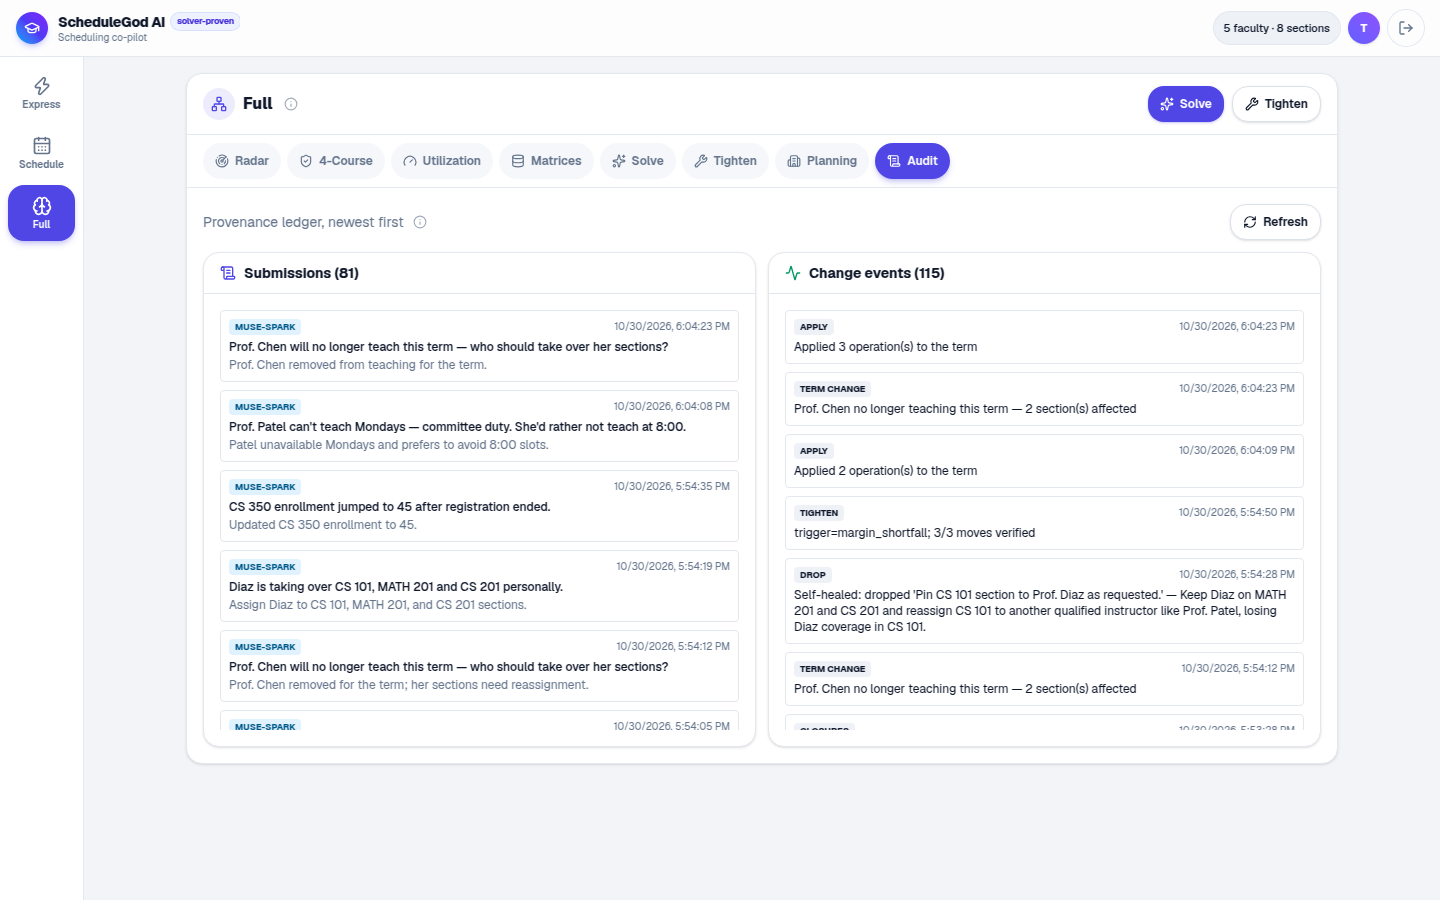
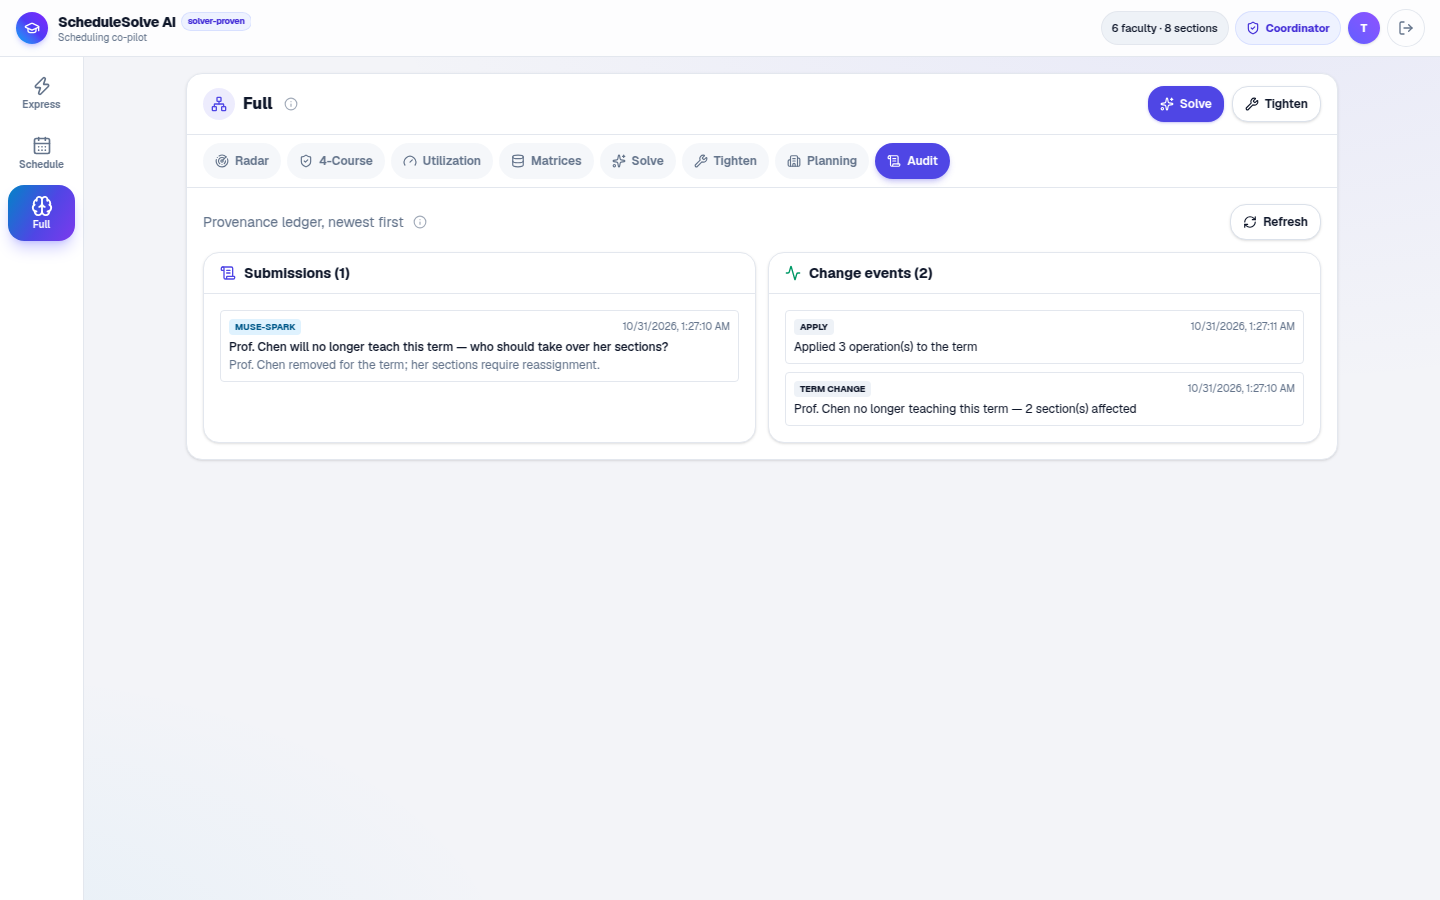
feat(ui): elite polish pass + record-based README/screenshots
Login gains a proof hero (headline, pipeline chips, 361-section / dual-
engine / 100%-guarantee stat cards) with a gradient CTA; header shows a
role pill; nav active states use the brand gradient; design tokens add
layered elevation, gradient text/bar and shimmer utilities; Express
steps widen to max-w-4xl with clearance under the sticky footer;
timetable rows grow to 84px with instructor+room always visible and
single-line stacked blocks (no more clipped text); student panel gets
an elevated card, gradient animated progress bar and accent-bordered
mandatory/optional course cards. README: 360-degree framing carried
through How-it-works/OPERATE/demo-table/provenance (five Spark roles),
and all screenshots re-shot on the live ScheduleSolve UI, including a
new student-advising screenshot.

diff --git a/frontend/src/components/views/wizard.tsx b/frontend/src/components/views/wizard.tsx
@@ -139,7 +139,7 @@ function Section({ title, icon, hint, children, tone = "default" }: {
     sky: "bg-sky-50 border-sky-200",
   };
   return (
-    <section className={cn("rounded-2xl border p-3.5 shadow-sm sm:p-4", tones[tone])}>
+    <section className={cn("elev rounded-2xl border p-3.5 sm:p-4", tones[tone])}>
       <div className="mb-3 flex items-center gap-2">
         <span className="shrink-0 rounded-lg border border-black/5 bg-white/80 p-1.5 shadow-sm">{icon}</span>
         <h3 className="min-w-0 flex-1 truncate font-extrabold text-sm tracking-tight text-foreground">{title}</h3>
@@ -487,7 +487,7 @@ export function WizardView({ onToast }: WizardViewProps) {
         </div>
       </div>
 
-      <div className="mt-4 space-y-4">
+      <div className="mt-4 space-y-4 pb-28">
         {error && (
           <div className="bg-amber-50 border border-amber-200 rounded-lg p-4 text-sm text-amber-800">
             Backend not reachable — the wizard needs the Python service. Start it with{" "}
@@ -497,7 +497,7 @@ export function WizardView({ onToast }: WizardViewProps) {
         )}
 
         {step === "import" && (
-          <div className="space-y-4 max-w-3xl mx-auto">
+          <div className="space-y-4 max-w-4xl mx-auto">
             <Section title="Your scheduling data" hint="Any format — PDF catalog, Excel rooms, Word memo, CSV, plain text, or a zip. Muse autocleans files covering all six needs (catalog, degree maps, cohorts, faculty, rooms, campus map) into one model of the institution." icon={<Database className="w-5 h-5 text-primary" />} tone="primary">
               <div
                 onDragOver={(e) => { e.preventDefault(); setDragOver(true); }}
@@ -615,7 +615,7 @@ export function WizardView({ onToast }: WizardViewProps) {
         )}
 
         {step === "intake" && (
-          <div className="space-y-4 max-w-3xl mx-auto">
+          <div className="space-y-4 max-w-4xl mx-auto">
             <Section title="Add a constraint" hint="Type it exactly as you'd say it. Muse parses it into typed constraints; the solver re-solves and proves it before anything changes." icon={<Users className="w-5 h-5 text-primary" />} tone="primary">
               <div className="flex flex-wrap items-center gap-2 mb-2">
                 <label className="text-xs font-semibold text-muted-foreground" htmlFor="speaker">Speaker</label>
@@ -702,7 +702,7 @@ export function WizardView({ onToast }: WizardViewProps) {
         )}
 
         {step === "build" && (
-          <div className="space-y-4 max-w-3xl mx-auto">
+          <div className="space-y-4 max-w-4xl mx-auto">
             <Section title="Build the term" hint="Assigns every section an instructor, time, and room under all hard rules: capacity, loads, cohort conflicts, equipment, walk distance. Pick an engine — same input, same output contract." icon={<Zap className="w-5 h-5 text-emerald-600" />} tone="emerald">
               <div className="flex items-center gap-2 mb-2">
                 <span className="text-xs font-semibold text-emerald-900">Engine</span>
@@ -831,7 +831,7 @@ export function WizardView({ onToast }: WizardViewProps) {
         )}
 
         {step === "review" && (
-          <div className="space-y-4 max-w-3xl mx-auto">
+          <div className="space-y-4 max-w-4xl mx-auto">
             {spectral && (
               <Section title="Spectral radar" hint="Conflict-graph health check. μ₂ = how tightly sections are coupled; Hoffman bound = minimum time bands needed; max clique = largest set of mutually conflicting sections. Warnings flag structural deadlocks before a solve is wasted." icon={<Radar className="w-5 h-5 text-sky-600" />} tone="sky">
                 <div className="grid grid-cols-3 gap-2 text-center text-xs">
@@ -883,7 +883,7 @@ export function WizardView({ onToast }: WizardViewProps) {
         )}
 
         {step === "term-change" && (
-          <div className="space-y-4 max-w-3xl mx-auto">
+          <div className="space-y-4 max-w-4xl mx-auto">
             <Section title="Term Change" hint="A change that lasts through the end of the term — an instructor will no longer teach, so their sections are reassigned for the rest of the term. The solver probes every qualified instructor and ranks only zero-ripple reassignments; no name is shown until the reassignment is proven. A room change for the rest of the term (e.g. a hall withdrawn) is entered in Intake instead." icon={<AlertTriangle className="w-5 h-5 text-amber-600" />} tone="amber">
               <textarea
                 value={termChangeMsg}

diff --git a/frontend/src/components/views/login.tsx b/frontend/src/components/views/login.tsx
@@ -48,6 +48,41 @@ export function LoginView({ onLogin, onToast }: {
   return (
     <div className="relative flex min-h-dvh w-full items-center justify-center overflow-hidden bg-background p-4">
       <div aria-hidden className="pointer-events-none absolute inset-0 bg-[radial-gradient(60rem_30rem_at_50%_-10%,rgba(99,102,241,0.16),transparent),radial-gradient(40rem_24rem_at_90%_110%,rgba(14,165,233,0.12),transparent)]" />
+
+      {/* Proof panel (desktop): the first impression carries the evidence. */}
+      <div className="animate-rise relative mr-14 hidden w-full max-w-xl xl:block">
+        <p className="text-[11px] font-bold tracking-[0.2em] text-indigo-600 uppercase">Agentic constraint solver · Timetable infrastructure</p>
+        <h2 className="mt-3 text-5xl leading-[1.05] font-extrabold tracking-tight text-foreground">
+          The timetable,<br /><span className="text-gradient">proven — not guessed.</span>
+        </h2>
+        <p className="mt-4 max-w-md text-sm leading-relaxed text-muted-foreground">
+          Messy institutional files in any format become one model of the whole
+          campus. Muse Spark proposes constraints in plain language; two
+          solver engines prove every schedule, change, and student's plan
+          before it stands.
+        </p>
+        <div className="mt-6 flex flex-wrap gap-1.5">
+          {["Any-format ingestion", "Muse Spark parses", "Solvers prove", "Faculty verified", "Students advised"].map((s, i, a) => (
+            <span key={s} className="inline-flex items-center gap-1.5">
+              <span className="rounded-full bg-white/80 px-2.5 py-1 text-[11px] font-bold text-indigo-900 ring-1 ring-indigo-200/70 shadow-sm">{s}</span>
+              {i < a.length - 1 && <span className="text-indigo-300">→</span>}
+            </span>
+          ))}
+        </div>
+        <div className="mt-8 grid max-w-lg grid-cols-3 gap-2">
+          {[
+            ["361", "sections proven optimal at full-university scale"],
+            ["2", "solver engines raced head-to-head on identical data"],
+            ["100%", "of cohorts keep their 4-course guarantee at stress scale"],
+          ].map(([n, label]) => (
+            <div key={label} className="elev rounded-2xl border border-border bg-card/90 p-3">
+              <div className="text-gradient text-2xl font-extrabold tracking-tight">{n}</div>
+              <div className="mt-1 text-[10px] leading-snug text-muted-foreground">{label}</div>
+            </div>
+          ))}
+        </div>
+      </div>
+
       <div className="animate-rise relative w-full max-w-md space-y-4">
         <div className="space-y-2 text-center">
           <div className="inline-flex rounded-2xl bg-gradient-to-tr from-sky-500 to-indigo-600 p-3 text-white shadow-lg shadow-indigo-500/25">
@@ -95,7 +130,7 @@ export function LoginView({ onLogin, onToast }: {
                   cohort_id: role === "student" ? linkId || undefined : undefined,
                 })
               : submit("/api/auth/login", { email, password })}
-            className="inline-flex min-h-11 w-full items-center justify-center gap-2 rounded-xl bg-primary px-3 py-2 text-sm font-semibold text-primary-foreground shadow-sm shadow-primary/25 transition-all active:scale-[0.99] disabled:opacity-50"
+            className="brand-gradient inline-flex min-h-11 w-full items-center justify-center gap-2 rounded-xl px-3 py-2 text-sm font-semibold text-white shadow-md shadow-indigo-500/30 transition-all hover:brightness-110 active:scale-[0.99] disabled:opacity-40"
           >
             {registering ? <UserPlus className="w-4 h-4" /> : <KeyRound className="w-4 h-4" />}
             {registering ? "Create account" : "Sign in"}

diff --git a/frontend/src/components/views/my-schedule.tsx b/frontend/src/components/views/my-schedule.tsx
@@ -340,7 +340,7 @@ function StudentPlanPanel({ user, onToast }: {
   }
 
   return (
-    <div className="space-y-3 rounded-2xl border border-border bg-card p-4 shadow-sm">
+    <div className="elev space-y-3 rounded-2xl border border-border bg-card p-4">
       <div className="flex items-center gap-1.5">
         <h3 className="flex items-center gap-2 text-xs font-bold tracking-wide uppercase">
           <GraduationCap className="h-4 w-4 text-primary" /> Suggest my schedule
@@ -391,13 +391,13 @@ function StudentPlanPanel({ user, onToast }: {
       )}
 
       {plan?.progress && (
-        <div className="space-y-1.5 rounded-xl border border-border bg-background p-3 text-xs">
+        <div className="animate-rise elev space-y-1.5 rounded-xl border border-border bg-background p-3 text-xs">
           <p className="font-bold">
             {plan.progress.program_name}: {plan.progress.required_completed} of {plan.progress.required_total} mandatory courses completed ({plan.progress.pct_complete}%)
             <span className="ml-2 font-medium text-muted-foreground">from {plan.progress.source}</span>
           </p>
-          <div className="h-2 overflow-hidden rounded-full bg-muted">
-            <div className="h-full bg-primary" style={{ width: `${plan.progress.pct_complete}%` }} />
+          <div className="h-2.5 overflow-hidden rounded-full bg-muted">
+            <div className="brand-gradient h-full rounded-full transition-[width] duration-700 ease-out" style={{ width: `${plan.progress.pct_complete}%` }} />
           </div>
           <p className="text-muted-foreground">
             Ready now (mandatory): {plan.progress.mandatory_ready.join(", ") || "none"}
@@ -426,9 +426,9 @@ function StudentPlanPanel({ user, onToast }: {
       )}
 
       {plan && plan.courses.length > 0 && (
-        <div className="grid gap-2 sm:grid-cols-2">
+        <div className="animate-rise grid gap-2 sm:grid-cols-2">
           {plan.courses.map((c) => (
-            <div key={c.section_id} className="rounded-xl border border-border bg-background p-3">
+            <div key={c.section_id} className={`rounded-xl border border-border border-l-4 bg-background p-3 ${c.required ? "border-l-indigo-500" : "border-l-slate-300"}`}>
               <p className="flex items-center gap-2 text-sm font-extrabold">
                 {c.course_code}
                 {c.required ? (

diff --git a/frontend/src/components/timetable-grid.tsx b/frontend/src/components/timetable-grid.tsx
@@ -44,6 +44,11 @@ function Block({ placement, changed, compact }: {
       <div className="flex items-start justify-between gap-1">
         <span className="text-[11px] font-extrabold leading-tight truncate">
           {placement.course_code}
+          {compact && (
+            <span className="ml-1 text-[9px] font-semibold opacity-75">
+              {shortName(placement.instructor_name)}
+            </span>
+          )}
         </span>
         <span className="flex items-center gap-1 shrink-0">
           {placement.periods.length > 1 && (
@@ -56,13 +61,15 @@ function Block({ placement, changed, compact }: {
           )}
         </span>
       </div>
-      <div className="text-[10px] font-medium leading-tight truncate">
-        {shortName(placement.instructor_name)}
-      </div>
       {!compact && (
-        <div className="text-[9px] leading-tight opacity-70 truncate">
-          {placement.room_name}
-        </div>
+        <>
+          <div className="text-[10px] font-medium leading-tight truncate">
+            {shortName(placement.instructor_name)}
+          </div>
+          <div className="text-[9px] leading-tight opacity-70 truncate">
+            {placement.room_name}
+          </div>
+        </>
       )}
     </div>
   );
@@ -100,14 +107,14 @@ export function TimetableGrid({ placements, changed, compact }: {
           className="grid min-w-[430px] gap-px overflow-hidden rounded-2xl bg-border p-px sm:min-w-[520px]"
           style={{
             gridTemplateColumns: "44px repeat(5, minmax(0, 1fr))",
-            gridTemplateRows: `26px repeat(4, ${compact ? "60px" : "76px"})`,
+            gridTemplateRows: `28px repeat(4, ${compact ? "60px" : "84px"})`,
           }}
         >
           <div className="bg-slate-100" style={{ gridColumn: 1, gridRow: 1 }} />
           {DAY_NAMES.map((day, i) => (
             <div
               key={day}
-              className="flex items-center justify-center bg-slate-100 px-0.5 text-[10px] font-extrabold tracking-widest text-slate-500 uppercase"
+              className="flex items-center justify-center bg-slate-100 px-0.5 text-[10px] font-extrabold tracking-widest text-slate-600 uppercase"
               style={{ gridColumn: i + 2, gridRow: 1 }}
             >
               <span className="sm:hidden">{day.slice(0, 3)}</span>

diff --git a/frontend/src/components/sidebar.tsx b/frontend/src/components/sidebar.tsx
@@ -54,11 +54,11 @@ export function Sidebar({ activeView, setActiveView }: NavProps) {
                 className={cn(
                   "relative flex min-h-14 w-full flex-col items-center justify-center gap-1 rounded-2xl px-1 py-2 transition-all duration-150 active:scale-[0.97]",
                   isActive
-                    ? "bg-primary text-primary-foreground shadow-md shadow-primary/25"
+                    ? "brand-gradient text-white shadow-lg shadow-indigo-500/30"
                     : "text-muted-foreground hover:bg-accent hover:text-accent-foreground"
                 )}
               >
-                <Icon className="h-5 w-5 shrink-0" />
+                <Icon className={cn("h-5 w-5 shrink-0", isActive && "scale-110")} />
                 <span className="text-[10px] leading-none font-semibold">{view.label}</span>
               </button>
             </Tip>
@@ -88,7 +88,7 @@ export function MobileNav({ activeView, setActiveView }: NavProps) {
               className={cn(
                 "flex min-h-12 flex-col items-center justify-center gap-0.5 rounded-2xl px-2 py-1.5 transition-all duration-150 active:scale-[0.96]",
                 isActive
-                  ? "bg-primary text-primary-foreground shadow-md shadow-primary/25"
+                  ? "brand-gradient text-white shadow-lg shadow-indigo-500/30"
                   : "text-muted-foreground active:bg-accent"
               )}
             >

diff --git a/frontend/src/components/header.tsx b/frontend/src/components/header.tsx
@@ -3,7 +3,7 @@
 // Compact glass header: brand, live scale, user. Detail hides in tooltips.
 
 import { useEffect, useState } from "react";
-import { GraduationCap, LogOut } from "lucide-react";
+import { BookOpenCheck, GraduationCap, LogOut, ShieldCheck } from "lucide-react";
 import type { Scenario } from "@/types";
 import type { AuthUser } from "@/lib/auth";
 import { Tip } from "@/components/ui/tip";
@@ -55,6 +55,12 @@ export function Header({ user, onLogout }: { user?: AuthUser | null; onLogout?: 
 
           {user && (
             <>
+              <span className="hidden h-8 items-center gap-1.5 rounded-full bg-indigo-50 px-2.5 text-[11px] font-bold text-indigo-700 ring-1 ring-indigo-200/70 sm:inline-flex">
+                {user.role === "coordinator" ? <ShieldCheck className="h-3.5 w-3.5" />
+                  : user.role === "instructor" ? <BookOpenCheck className="h-3.5 w-3.5" />
+                  : <GraduationCap className="h-3.5 w-3.5" />}
+                <span className="capitalize">{user.role}</span>
+              </span>
               <Tip label={`${user.email} · ${user.role}`} side="bottom">
                 <span className="flex h-8 w-8 cursor-help items-center justify-center rounded-full bg-gradient-to-tr from-indigo-500 to-violet-500 text-[11px] font-extrabold text-white shadow-sm">
                   {(user.display_name || user.email).slice(0, 1).toUpperCase()}

diff --git a/frontend/src/app/globals.css b/frontend/src/app/globals.css
@@ -138,6 +138,43 @@
     user-select: none;
     -webkit-user-select: none;
   }
+  /* Layered elevation for primary surfaces (cards that carry the story). */
+  .elev {
+    box-shadow:
+      0 1px 2px rgba(15, 23, 42, 0.05),
+      0 8px 24px -8px rgba(15, 23, 42, 0.1);
+  }
+  .elev-lg {
+    box-shadow:
+      0 2px 4px rgba(15, 23, 42, 0.05),
+      0 20px 44px -12px rgba(49, 46, 129, 0.22);
+  }
+  .brand-gradient {
+    background-image: linear-gradient(120deg, #0284c7, #4f46e5 55%, #7c3aed);
+  }
+  .text-gradient {
+    background-image: linear-gradient(100deg, #0369a1, #4f46e5 55%, #7c3aed);
+    -webkit-background-clip: text;
+    background-clip: text;
+    color: transparent;
+  }
+  /* Indeterminate shimmer for progress / loading bars. */
+  .shimmer {
+    position: relative;
+    overflow: hidden;
+  }
+  .shimmer::after {
+    content: "";
+    position: absolute;
+    inset: 0;
+    background: linear-gradient(100deg, transparent 20%, rgba(255, 255, 255, 0.45) 50%, transparent 80%);
+    animation: shimmer 1.8s ease-in-out infinite;
+  }
+}
+
+@keyframes shimmer {
+  from { transform: translateX(-100%); }
+  to { transform: translateX(100%); }
 }
 
 @keyframes rise {

diff --git a/frontend/src/components/dashboard.tsx b/frontend/src/components/dashboard.tsx
@@ -79,7 +79,7 @@ export function Dashboard() {
       <Header user={user} onLogout={handleLogout} />
       <div className="flex min-h-0 flex-1 overflow-hidden">
         <Sidebar activeView={activeView} setActiveView={setActiveView} />
-        <main className="relative min-w-0 flex-1 overflow-hidden bg-muted/30">
+        <main className="relative min-w-0 flex-1 overflow-hidden bg-muted/30 bg-[radial-gradient(54rem_26rem_at_85%_-10%,rgba(99,102,241,0.08),transparent),radial-gradient(36rem_20rem_at_-10%_110%,rgba(14,165,233,0.06),transparent)]">
           {/* Clearance for the fixed mobile tab bar (removed on lg). */}
           <div className="custom-scrollbar h-full overflow-y-auto p-3 pb-[calc(5.5rem+env(safe-area-inset-bottom,0px))] sm:p-4 lg:pb-4">
             <div key={activeView} className="animate-rise mx-auto w-full max-w-6xl">

diff --git a/readme.md b/readme.md
@@ -32,6 +32,8 @@ Built for the **Meta Global AI Developer Hackathon** — *Build for Your World* 
 
 ![Express · Term Change: before/after with CP-SAT-verified reassignment](docs/screenshot-term-change.png)
 
+![Student · Suggest my schedule: record-based advising with a verified personal plan](docs/screenshot-student.png)
+
 ## How it works
 
 ```
@@ -55,7 +57,11 @@ BUILD      both engines assign every section an instructor, timeslot set,
            evaluates both final schedules from outputs alone (proven status,
            then penalty, then speed) and ranks Rank 1 / Rank 2
 OPERATE    the coordinator publishes the winning timetable; instructors and
-           students sign in to their own role-filtered schedules. Changes
+           students sign in to their own role-filtered schedules, and each
+           student is advised from their own study record + desired degree:
+           mandatory/optional from the fed degree map, a proven personal
+           plan that fits their work days — or a named reason it cannot.
+           Changes
            arrive two ways: a term change (a typed message -> impact analysis
            -> propose_candidates: every qualified instructor solver-probed
            for zero-ripple feasibility + preference delta, ranked with
@@ -92,7 +98,7 @@ Full constraint catalog — offerings & degree roadmaps, course optionality, act
 | "Diaz is taking over CS 101, MATH 201 and CS 201 personally." | INFEASIBLE — Diaz's load cap is two sections. Muse Spark's explanation names the binding rule and ranks resolutions ("drop the CS 201 pin — Okafor has capacity to take it"); **every option is re-solved by CP-SAT with its own penalty delta**, the least disruptive one applies. |
 | "CS 350 enrollment jumped to 45 after registration ended." | Active enrollment re-triggers every capacity check; the board re-solves and CS 350 lands in the 120-seat hall with zero cohort conflicts. |
 | *(coordinator clicks Publish, then signs in as Prof. Chen)* | Chen sees **only her own sections**. Her request "I can't teach Fridays" goes to the coordinator, who approves it — the verified loop re-solves, re-publishes, and her personal grid updates. A student signing in sees only their cohort's courses. |
-| "I work Tuesdays and Thursdays. I need CS 201 this term, no 8 AMs." *(a student, in My Schedule → Suggest my schedule)* | Muse Spark parses work days / must-take / time bans; an exact selector returns a personal plan from the placed timetable — required roadmap courses first, zero overlaps, nothing on work days — re-verified independently before it is shown. When CS 201's only section is the 8 AM one, the student is told that plainly instead of being handed a plan that slips their degree. |
+| "I work Tuesdays and Thursdays. I need CS 201 this term, no 8 AMs." *(a student, in My Schedule → Suggest my schedule)* | Advising starts from the student's own record: mandatory vs optional from the fed degree map, completed courses from their study record (or a cohort progress lookup), desired degree of their choice. Muse Spark parses record + life constraints; a degree-map audit shows mandatory done / ready / co-takeable / locked; an exact selector then recommends — zero overlaps, nothing already completed, nothing on work days — re-verified independently before it is shown. When CS 201's only section is the 8 AM one, the student is told that plainly instead of being handed a plan that slips their degree. |
 | "What if enrollment grows 20% — or we repurpose the big hall?" | Each growth/repurpose/build-a-lab what-if is re-solved first: utilization and four-course-guarantee deltas with a plain verdict, before capital is committed. Add a college, degree, or course — or adjust a degree map — by re-ingesting the changed files; the institution re-solves as one. |
 | *(C39 shortfall fires)* | "CS 2023 cohort can only fit 2 of 4 non-conflicting courses." → the tightener proposes opening already-offered electives; CP-SAT verifies the margin gains against the current board and **rejects** moves that make the enlarged scenario infeasible. Only verified moves are shown. |
 
@@ -174,7 +180,7 @@ cp .env.example .env        # then paste your key from https://dev.meta.ai/dashb
 docker compose up --build   # live Muse Spark
 ```
 
-**Sample outputs / provenance:** `backend/muse-verification.json` is a live captured run of all four structured roles against the seed (ingestion + parse + explanation + tighten), all `muse-spark-1.3-contributor`, with real structured outputs and latencies (3–42 s per call across the contributor and open-weights captures). The parse battery includes a speaker context for identity-dependent messages. `backend/muse-verification-student.json` captures a live student-plan parse (work days + must-take course + no-8AM, verified end-to-end). `backend/muse-verification-voice.json` captures Muse Voice Transcribe producing a review draft; spelled-out academic titles from speech recognition are normalized deterministically before parsing.
+**Sample outputs / provenance:** `backend/muse-verification.json` is a live captured run of the structured roles against the seed (ingestion + parse + explanation + tighten), all `muse-spark-1.3-contributor`, with real structured outputs and latencies (3–42 s per call across the contributor and open-weights captures). The parse battery includes a speaker context for identity-dependent messages. `backend/muse-verification-student.json` captures the fifth role live: a student-plan parse from a stated record (work days + completed courses, degree-map audit, verified plan end-to-end). `backend/muse-verification-voice.json` captures Muse Voice Transcribe producing a review draft; spelled-out academic titles from speech recognition are normalized deterministically before parsing.
 
 *All four structured roles run on the contributor model because the data is synthetic; a real institution would use standard mode (`muse-spark-1.3`) so no staff data ever trains Meta's models. Dev-time coding tools are unrestricted by the hackathon and touch nothing at runtime.*
 
